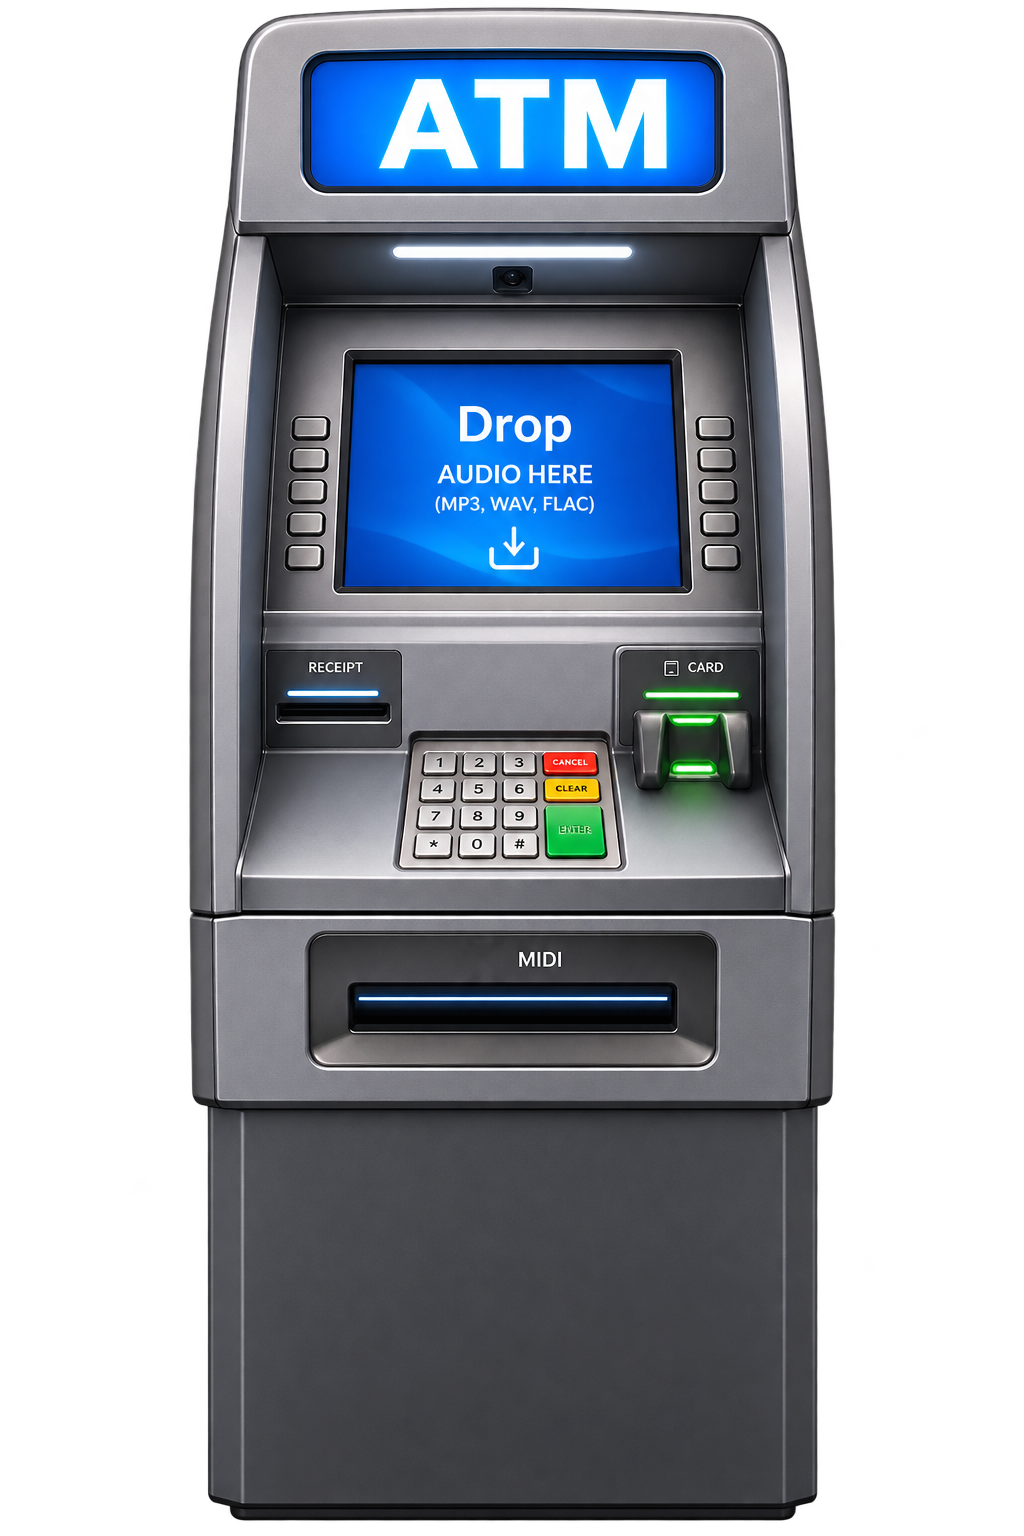
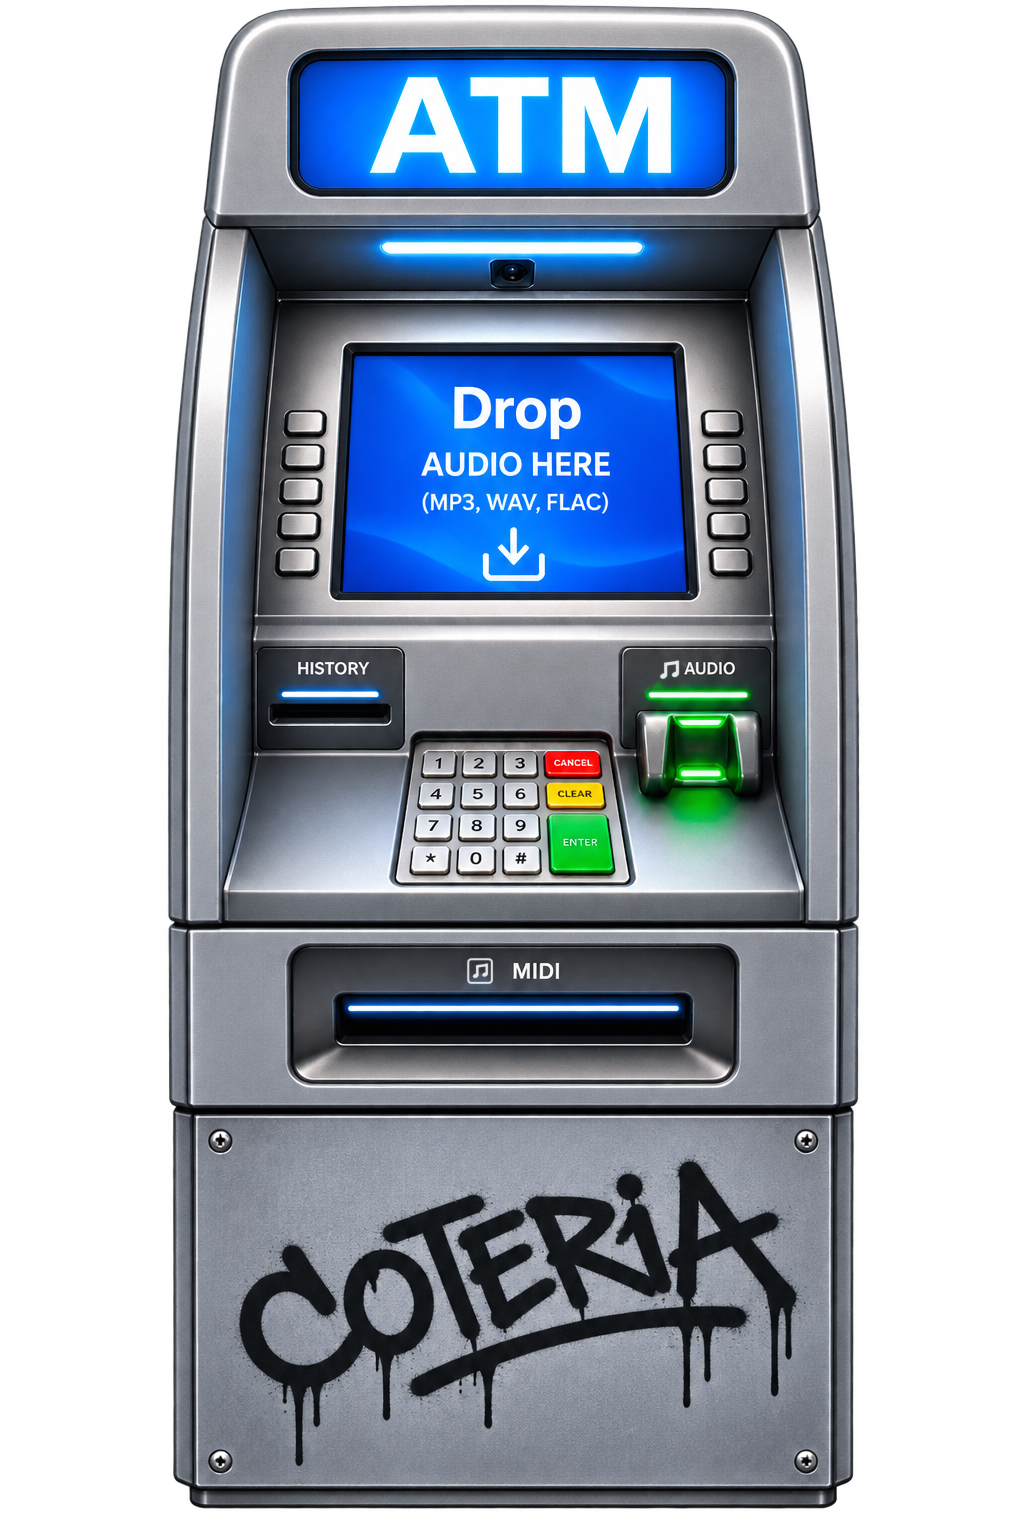
Add files via upload

diff --git a/PluginEditor.cpp b/PluginEditor.cpp
@@ -332,7 +332,7 @@ void NoteRoll::paint (juce::Graphics& g)
 
     // the keys beside the screen: what each one does
     {
-        const float cy[] = { 64.0f, 95.5f, 127.0f, 160.0f, 193.0f };   // the keys' centres, relative to the screen
+        const float cy[] = { 61.0f, 96.0f, 130.0f, 164.0f, 199.0f };   // the keys' centres, relative to the screen
         g.setFont (juce::Font (juce::FontOptions (15.0f, juce::Font::bold)));
         auto pill = [&] (const juce::String& text, bool left, float y)
         {
@@ -430,25 +430,6 @@ void AtmBackground::paint (juce::Graphics& g)
         g.setImageResamplingQuality (juce::Graphics::highResamplingQuality);
         g.drawImage (image, getLocalBounds().toFloat());
     }
-
-    // the music-note badge beside "MIDI" (the one in the picture was blurred and crooked, it was removed from the picture)
-    {
-        const auto white = juce::Colour (0xfff4f4f4);
-        g.setColour (juce::Colours::black.withAlpha (0.45f));
-        g.drawRoundedRectangle (juce::Rectangle<float> (472.0f, 948.0f, 24.0f, 24.0f), 4.5f, 3.2f);
-        g.setColour (white);
-        g.drawRoundedRectangle (juce::Rectangle<float> (471.0f, 947.0f, 24.0f, 24.0f), 4.5f, 2.2f);
-
-        juce::Path note;
-        note.startNewSubPath (480.0f, 962.0f);      // left stem
-        note.lineTo (480.0f, 953.0f);
-        note.lineTo (489.5f, 951.0f);               // beam
-        note.lineTo (489.5f, 960.0f);               // right stem
-        g.strokePath (note, juce::PathStrokeType (1.9f, juce::PathStrokeType::mitered, juce::PathStrokeType::butt));
-        g.fillRoundedRectangle (juce::Rectangle<float> (480.0f, 952.5f, 9.5f, 3.0f), 0.8f);
-        g.fillEllipse (475.8f, 960.3f, 5.6f, 4.4f);
-        g.fillEllipse (485.3f, 958.3f, 5.6f, 4.4f);
-    }
 }
 
 //==============================================================================
@@ -459,7 +440,7 @@ void SignGlow::paint (juce::Graphics& g)
         return;
 
     // the sign's blue panel is (301, 49)-(722, 185) in the picture; this component starts at (288, 36)
-    const auto sign = juce::Rectangle<float> (13.0f, 13.0f, 421.0f, 136.0f);
+    const auto sign = juce::Rectangle<float> (12.0f, 20.0f, 424.0f, 136.0f);
     for (int i = 4; i >= 1; --i)                                // soft halo
     {
         g.setColour (juce::Colour (0xff8fc4ff).withAlpha (0.045f * level * (float) (5 - i)));
@@ -513,7 +494,7 @@ void CardReader::setState (bool isBusy, bool isDrag, int tick)
 void CardReader::paintButton (juce::Graphics& g, bool highlighted, bool)
 {
     // positions of the three green lights of the picture, relative to this component (it starts at 615, 646)
-    const juce::Rectangle<float> lights[] = { { 28.0f, 43.0f, 98.0f, 10.0f }, { 50.0f, 62.0f, 58.0f, 14.0f }, { 53.0f, 114.0f, 52.0f, 16.0f } };
+    const juce::Rectangle<float> lights[] = { { 34.0f, 44.0f, 98.0f, 9.0f }, { 64.0f, 72.0f, 42.0f, 10.0f }, { 66.0f, 122.0f, 40.0f, 10.0f } };
 
     if (busy)
     {
@@ -539,15 +520,17 @@ void CardReader::paintButton (juce::Graphics& g, bool highlighted, bool)
 // Numeric pad
 KeypadComponent::KeypadComponent()
 {
-    // component origin in the picture: (400, 740)
-    const int cols[] = { 440, 480, 520 }, rows[] = { 763, 788, 816, 845 };
+    // component origin in the picture: (396, 736); the keys stand on a slight perspective, so each row has its own columns
+    const int ox = 396, oy = 736;
+    const int colsRow[4][3] = { { 439, 479, 520 }, { 436, 479, 522 }, { 433, 477, 521 }, { 430, 477, 521 } };
+    const int rows[] = { 764, 795, 827, 859 };
     for (int r = 0; r < 4; ++r)
         for (int cI = 0; cI < 3; ++cI)
-            keys.push_back ({ juce::Rectangle<int> (cols[cI] - 18 - 400, rows[r] - 12 - 740, 36, 24), 0 });
+            keys.push_back ({ juce::Rectangle<int> (colsRow[r][cI] - 18 - ox, rows[r] - 12 - oy, 36, 25), 0 });
 
-    keys.push_back ({ juce::Rectangle<int> (545 - 400, 752 - 740, 52, 23), 1 });     // cancel
-    keys.push_back ({ juce::Rectangle<int> (545 - 400, 779 - 740, 52, 22), 2 });     // clear
-    keys.push_back ({ juce::Rectangle<int> (547 - 400, 804 - 740, 55, 53), 3 });     // enter
+    keys.push_back ({ juce::Rectangle<int> (544 - ox, 751 - oy, 57, 27), 1 });       // cancel
+    keys.push_back ({ juce::Rectangle<int> (546 - ox, 782 - oy, 58, 27), 2 });       // clear
+    keys.push_back ({ juce::Rectangle<int> (549 - ox, 814 - oy, 65, 60), 3 });       // enter
     setMouseCursor (juce::MouseCursor::PointingHandCursor);
 }
 
@@ -630,7 +613,7 @@ void StatusLed::paint (juce::Graphics& g)
 //==============================================================================
 // MIDI output slot: the finished MIDI file sticks out of it like a printed ticket; drag it into the DAW.
 // This component starts at (300, 930) in the picture.
-static juce::Rectangle<float> ticketRect() { return { 100.0f, 84.0f, 230.0f, 78.0f }; }
+static juce::Rectangle<float> ticketRect() { return { 100.0f, 92.0f, 230.0f, 78.0f }; }
 
 bool MidiDragHandle::hitTest (int x, int y)
 {
@@ -645,9 +628,9 @@ void MidiDragHandle::paint (juce::Graphics& g)
 
     // the slot's light turns green
     g.setColour (juce::Colour (0xff7ee08a).withAlpha (0.35f));
-    g.fillRoundedRectangle (juce::Rectangle<float> (60.0f, 64.0f, 310.0f, 9.0f), 4.0f);
+    g.fillRoundedRectangle (juce::Rectangle<float> (44.0f, 72.0f, 338.0f, 12.0f), 5.0f);
     g.setColour (juce::Colour (0xffb8ffc4));
-    g.fillRoundedRectangle (juce::Rectangle<float> (64.0f, 67.0f, 302.0f, 3.0f), 1.5f);
+    g.fillRoundedRectangle (juce::Rectangle<float> (50.0f, 75.0f, 326.0f, 5.0f), 2.5f);
 
     // the ticket
     const auto t = ticketRect();
@@ -1133,7 +1116,7 @@ void HistoryPanel::resized()
 void KeyReadout::update (AudioToMidiProcessor& p)
 {
     const int v = p.getNotesVersion();
-    const double b = p.getMidiBpm();
+    const double b = p.getTrackBpm();
     if (v == version && std::abs (b - bpm) < 0.01)
         return;
     if (v != version)
@@ -1361,7 +1344,7 @@ void AdvancedPanel::paint (juce::Graphics& g)
 {
     const auto& pal = paletteOf (*this);
     auto r = getLocalBounds().toFloat().reduced (1.0f);
-    g.setColour (pal.panel.withAlpha (0.78f));
+    g.setColour (pal.panel.withAlpha (0.92f));
     g.fillRoundedRectangle (r, 14.0f);
     g.setColour (pal.panelBorder);
     g.drawRoundedRectangle (r, 14.0f, 1.8f);
@@ -1371,10 +1354,10 @@ void AdvancedPanel::resized()
 {
     const int W = getWidth();
 
-    title.setBounds (18, 8, 280, 36);
-    folderButton.setBounds (W - 16 - 190, 8, 190, 36);
+    title.setBounds (18, 6, 280, 36);
+    folderButton.setBounds (W - 16 - 190, 6, 190, 36);
 
-    const int centres[] = { 74, 112, 150, 188, 226, 264 };
+    const int centres[] = { 62, 97, 132, 167, 202, 237 };
     for (size_t i = 0; i < rows.size(); ++i)
     {
         rows[i].name.setBounds (18, centres[i] - 16, 184, 32);
@@ -1382,14 +1365,14 @@ void AdvancedPanel::resized()
         rows[i].value.setBounds (W - 18 - 108, centres[i] - 16, 108, 32);
     }
 
-    inferToggle.setBounds (10, 286, 142, 30);
-    smoothToggle.setBounds (152, 286, 130, 30);
-    sfxToggle.setBounds (282, 286, 120, 30);
-    updatesToggle.setBounds (402, 286, 116, 30);
+    inferToggle.setBounds (10, 259, 142, 30);
+    smoothToggle.setBounds (152, 259, 130, 30);
+    sfxToggle.setBounds (282, 259, 120, 30);
+    updatesToggle.setBounds (402, 259, 116, 30);
 
-    playButton.setBounds (16, 320, 130, 36);
-    resetButton.setBounds (156, 320, 176, 36);
-    readout.setBounds (342, 322, 176, 34);
+    playButton.setBounds (16, 295, 130, 36);
+    resetButton.setBounds (156, 295, 176, 36);
+    readout.setBounds (342, 297, 176, 34);
 }
 
 //==============================================================================
@@ -1420,6 +1403,7 @@ AudioToMidiEditor::AudioToMidiEditor (AudioToMidiProcessor& p)
     content.addAndMakeVisible (panel);
     content.addAndMakeVisible (history);
     history.setVisible (false);
+    applyPanelVisibility();
     history.onClose = [this] { showHistory (false); };
 
     keyLang.onClick = [this]
@@ -1505,17 +1489,17 @@ void AudioToMidiEditor::layoutContent()
 {
     // everything is placed on the picture (1024 x 1536)
     background.setBounds (0, 0, baseW, baseH);
-    led.setBounds (395, 243, 237, 18);
-    roll.setBounds (348, 364, 331, 221);
+    led.setBounds (380, 238, 264, 20);
+    roll.setBounds (350, 360, 328, 229);
 
     signGlow.setBounds (288, 36, 448, 160);
-    receiptPaper.setBounds (279, 705, 112, 150);
+    receiptPaper.setBounds (274, 703, 112, 150);
     receiptOverlay.setBounds (0, 0, 1024, 1536);
-    signLink.setBounds (301, 49, 421, 136);         // the blue panel of the sign
+    signLink.setBounds (300, 56, 424, 138);         // the blue panel of the sign
 
     // the keys beside the screen stand on an arc: their real positions in the picture (x, y of each 39 x 26 key)
-    const juce::Point<int> leftKeys[]  = { { 292, 416 }, { 290, 448 }, { 288, 479 }, { 287, 512 }, { 285, 544 } };
-    const juce::Point<int> rightKeys[] = { { 696, 416 }, { 697, 448 }, { 699, 479 }, { 700, 512 }, { 702, 544 } };
+    const juce::Point<int> leftKeys[]  = { { 286, 409 }, { 284, 444 }, { 280, 478 }, { 279, 512 }, { 277, 547 } };
+    const juce::Point<int> rightKeys[] = { { 705, 409 }, { 706, 444 }, { 708, 478 }, { 709, 513 }, { 711, 547 } };
     keyOpen.setBounds    (juce::Rectangle<int> (39, 26).withPosition (leftKeys[0]));     // 1
     keyPlay.setBounds    (juce::Rectangle<int> (39, 26).withPosition (leftKeys[1]));     // 2
     keyHistory.setBounds (juce::Rectangle<int> (39, 26).withPosition (leftKeys[2]));     // 3
@@ -1530,13 +1514,13 @@ void AudioToMidiEditor::layoutContent()
     keyTelegram.setBounds (juce::Rectangle<int> (39, 26).withPosition (rightKeys[4]));   // 10
     applyKeyPage();
 
-    receipt.setBounds (265, 650, 137, 98);
-    card.setBounds (615, 646, 150, 148);
-    keypad.setBounds (400, 740, 210, 125);
+    receipt.setBounds (258, 648, 144, 100);
+    card.setBounds (615, 646, 160, 170);
+    keypad.setBounds (396, 736, 228, 148);
     dragHandle.setBounds (300, 930, 430, 170);
 
-    panel.setBounds (250, 1128, 524, 362);          // centred in the cabinet (its middle is x = 512)
-    history.setBounds (250, 1128, 524, 362);
+    panel.setBounds (250, 1130, 524, 340);          // centred in the cabinet (its middle is x = 512)
+    history.setBounds (250, 1130, 524, 340);
 }
 
 void AudioToMidiEditor::applyTheme (bool dark)
@@ -1557,9 +1541,15 @@ void AudioToMidiEditor::showHistory (bool show)
     if (show)
         history.refresh();
     history.setVisible (show);
-    panel.setVisible (settingsOn && ! show);
+    applyPanelVisibility();
     if (show)
         history.toFront (false);
+}
+
+// The settings are shown only once there is a result to tune (and the person has not hidden them)
+void AudioToMidiEditor::applyPanelVisibility()
+{
+    panel.setVisible (settingsOn && hasResult && ! history.isVisible());
 }
 
 void AudioToMidiEditor::relocalise()
@@ -1571,7 +1561,7 @@ void AudioToMidiEditor::relocalise()
     keySettings.setTooltip (tr ("Show / hide the Advanced Settings"));
     keyTelegram.setTooltip (tr ("COTERIA on Telegram"));
     signLink.setTooltip (tr ("COTERIA on Telegram"));
-    keySolo.setTooltip (tr ("Solo instrument preset (one guitar, piano...): fewer extra notes. Sets Note sensitivity 0.60 and Split sensitivity 0.30"));
+    keySolo.setTooltip (tr ("Live instrument preset (guitar, piano, acoustic): fewer extra notes. Sets Note sensitivity 0.60 and Split sensitivity 0.30. For electronic music and vocals the defaults work better"));
     keyNext.setTooltip (tr ("Next / previous page of keys"));
     keyReset.setTooltip (tr ("Reset the settings to defaults"));
     keyStart.setTooltip (tr ("MIDI position: keep the position the notes have in the audio / start the first note at 0 of the grid"));
@@ -1604,7 +1594,7 @@ void AudioToMidiEditor::toggleSettings()
     else
     {
         settingsOn = ! settingsOn;
-        panel.setVisible (settingsOn);
+        applyPanelVisibility();
     }
     updateSoftLabels();
 }
@@ -1640,7 +1630,7 @@ void AudioToMidiEditor::updateSoftLabels()
     const juce::String tg = update ? tr ("UPDATE!") : juce::String ("TELEGRAM");
     roll.setSoftLabels ({ tr ("OPEN"), tr (processor.isPlaying() ? "STOP" : "PLAY"), tr ("HISTORY"), tr ("SETTINGS"), {} },
                         page2 ? std::vector<juce::String> { tr ("THEME"), lang::isRu() ? juce::String::fromUTF8 ("ЯЗЫК: RU") : juce::String ("LANG: EN"), {}, tr ("BACK"), tg }
-                              : std::vector<juce::String> { tr (startZero ? "START: 0" : "START: AUDIO"), tr ("SOLO"), tr ("RESET"), tr ("NEXT"), tg });
+                              : std::vector<juce::String> { tr (startZero ? "START: 0" : "START: AUDIO"), tr ("LIVE"), tr ("RESET"), tr ("NEXT"), tg });
 }
 
 void AudioToMidiEditor::updateReceipt()
@@ -1651,6 +1641,12 @@ void AudioToMidiEditor::updateReceipt()
     printedVersion = v;
 
     const auto notes = processor.getNotesSnapshot();
+    const bool nowHas = ! notes.empty();
+    if (nowHas != hasResult)
+    {
+        hasResult = nowHas;
+        applyPanelVisibility();
+    }
     if (notes.empty())
     {
         printedTrack = {};
@@ -1663,7 +1659,7 @@ void AudioToMidiEditor::updateReceipt()
     ReceiptData d;
     d.valid = true;
     d.track = processor.getLastMidiFile().getFileNameWithoutExtension();
-    d.bpm = processor.getMidiBpm();
+    d.bpm = processor.getTrackBpm();
     d.notes = (int) notes.size();
     d.seconds = processor.getTotalSeconds();
     d.when = juce::Time::getCurrentTime();

diff --git a/Lang.h b/Lang.h
@@ -54,7 +54,7 @@ namespace lang
 
             // keys on the screen
             add ("OPEN", "ОТКРЫТЬ");        add ("PLAY", "ИГРАТЬ");        add ("STOP", "СТОП");
-            add ("HISTORY", "ИСТОРИЯ");     add ("SETTINGS", "НАСТРОЙКИ"); add ("SOLO", "СОЛО");
+            add ("HISTORY", "ИСТОРИЯ");     add ("SETTINGS", "НАСТРОЙКИ"); add ("LIVE", "LIVE");
             add ("RESET", "СБРОС");         add ("NEXT", "ДАЛЕЕ");         add ("BACK", "НАЗАД");
             add ("THEME", "ТЕМА");          add ("UPDATE!", "ОБНОВИТЬ!");  add ("LANG: EN", "ЯЗЫК: RU");
             add ("LANG: RU", "ЯЗЫК: RU");   add ("START: 0", "СТАРТ: 0");  add ("START: AUDIO", "СТАРТ: АУДИО");
@@ -66,8 +66,8 @@ namespace lang
             add ("Dark / light theme of the panels", "Тёмная / светлая тема панелей");
             add ("Show / hide the Advanced Settings", "Показать / скрыть расширенные настройки");
             add ("COTERIA on Telegram", "COTERIA в Telegram");
-            add ("Solo instrument preset (one guitar, piano...): fewer extra notes. Sets Note sensitivity 0.60 and Split sensitivity 0.30",
-                 "Пресет для одного инструмента (гитара, пианино...): меньше лишних нот. Ставит чувствительность нот 0.60 и разделение нот 0.30");
+            add ("Live instrument preset (guitar, piano, acoustic): fewer extra notes. Sets Note sensitivity 0.60 and Split sensitivity 0.30. For electronic music and vocals the defaults work better",
+                 "Пресет для живых инструментов (гитара, пианино, акустика): меньше лишних нот. Ставит чувствительность нот 0.60 и разделение нот 0.30. Для электронной музыки и вокала лучше настройки по умолчанию");
             add ("Next / previous page of keys", "Следующая / предыдущая страница кнопок");
             add ("Reset the settings to defaults", "Сбросить настройки по умолчанию");
             add ("MIDI position: keep the position the notes have in the audio / start the first note at 0 of the grid",

diff --git a/PluginProcessor.h b/PluginProcessor.h
@@ -84,6 +84,8 @@ public:
     int getNotesVersion() const { return notesVersion.load(); }
     a2m::KeyResult getKeyInfo() const        { const juce::ScopedLock sl (infoLock); return keyInfo; }
     double getMidiBpm() const noexcept       { return midiBpm.load(); }
+    // Tempo of the audio itself (what the track really runs at); falls back to the MIDI tempo when it cannot be found
+    double getTrackBpm() const noexcept      { const double d = detectedBpm.load(); return (d >= 40.0 && d <= 240.0) ? d : midiBpm.load(); }
     double getTotalSeconds() const { return totalSeconds.load(); }
     double getPlayPositionSeconds() const { return playPosUi.load(); }
 

diff --git a/PluginEditor.h b/PluginEditor.h
@@ -384,6 +384,8 @@ private:
     juce::String printedTrack;
     int printedVersion = -1;
     void updateReceipt();
+    void applyPanelVisibility();
+    bool hasResult = false;
     NoteRoll roll;                                      // the ATM screen
     HwButton keyOpen, keyPlay, keyHistory, keySettings, keySolo, keyStart, keyTheme, keyReset, keyTelegram, keyNext, keyLang;   // keys beside the screen (left 1-3, right 1, 4, 5)
     HwButton receipt;                                   // history

diff --git a/README.md b/README.md
@@ -15,14 +15,14 @@ The engine is **polyphonic** (neural network, Basic Pitch): chords, bass and mel
 
 ## Interface
 
-The window is an ATM; every part of it works:
+The window is an ATM (silver machine with the COTERIA graffiti panel, `assets/atm_full.png`); every part of it works:
 
 * **Screen**: the piano roll with the notes and the status line. The "ATM" sign above it pulses softly in time
   with the music while it plays.
 * **Keys beside the screen** (labels are shown on the screen). Left, top to bottom: OPEN, PLAY/STOP, HISTORY,
   SETTINGS (show / hide the Advanced Settings), (free). Right column, page 1: START ("AUDIO" keeps the notes where they
-  are in the audio, "0" moves the first note to the start of the grid), SOLO (preset for a single instrument: Note
-  sensitivity 0.60, Split sensitivity 0.30; press again to go back), RESET (empties the screen and the MIDI slot and returns the settings to defaults), NEXT, TELEGRAM (opens
+  are in the audio, "0" moves the first note to the start of the grid), LIVE (preset for live instruments - guitar, piano, acoustic: Note
+  sensitivity 0.60, Split sensitivity 0.30; press again to go back; on the test set it helps live recordings and hurts electronic music and vocals), RESET (empties the screen and the MIDI slot and returns the settings to defaults), NEXT, TELEGRAM (opens
   the COTERIA channels). Page 2 (after NEXT): THEME (dark / light panels), LANG (English / Russian interface), BACK, TELEGRAM.
   The MIDI folder is set with "Set MIDI folder..." in the settings panel. The "ATM" sign at the top is an invisible link to the same page.
 * **Card reader**: insert the audio file here - click it or drop a file on the window. It blinks amber while converting.
@@ -30,7 +30,7 @@ The window is an ATM; every part of it works:
   After every conversion of a new track the printer slot also pushes out a small paper **receipt** (track, BPM, key, notes, length). Click it to open it enlarged inside the plugin window; click the enlarged paper to save it as a PNG into the `Receipts` folder inside your MIDI folder (it is shown in the file manager), click next to it to close. The picture cannot be dragged out on purpose: DAWs such as FL Studio turn a dropped picture into a clip that is hard to remove. RESET removes it.
 * **Numeric pad**: ENTER = play / stop, CANCEL = stop, CLEAR = close the history.
 * **MIDI slot**: the finished file sticks out like a ticket - drag it into your DAW.
-* **Lower cabinet**: the Advanced Settings. Besides the slider, every value can be typed: click the number on the right, enter a value (e.g. 0.6 or 250), press Enter; values outside the range are clamped.
+* **Lower cabinet**: the Advanced Settings. They appear only after the first conversion (and disappear again after RESET). Besides the slider, every value can be typed: click the number on the right, enter a value (e.g. 0.6 or 250), press Enter; values outside the range are clamped.
 * **Resizable**: drag the bottom-right corner; the whole machine scales and the size is remembered.
 
 ## Tempo
@@ -113,7 +113,7 @@ upload the new installer to your channel, then change the number in `latest.json
 
 ## Tempo and key readout
 
-In the lower right of the settings panel the plugin shows the tempo of the written MIDI file and the musical key
+In the lower right of the settings panel the plugin shows the tempo of the audio track itself (detected from the sound, not the DAW project tempo; the MIDI file is still written in the project tempo) and the musical key
 found in the notes (`BPM 100 · KEY C# min`). The bar under it shows how sure the plugin is: one third red = low,
 two thirds yellow = medium, full green = high. Click the key to switch to the second most likely one (usually the
 relative major / minor). The key is an estimate from the transcribed notes; short or atonal material gives a low confidence.
